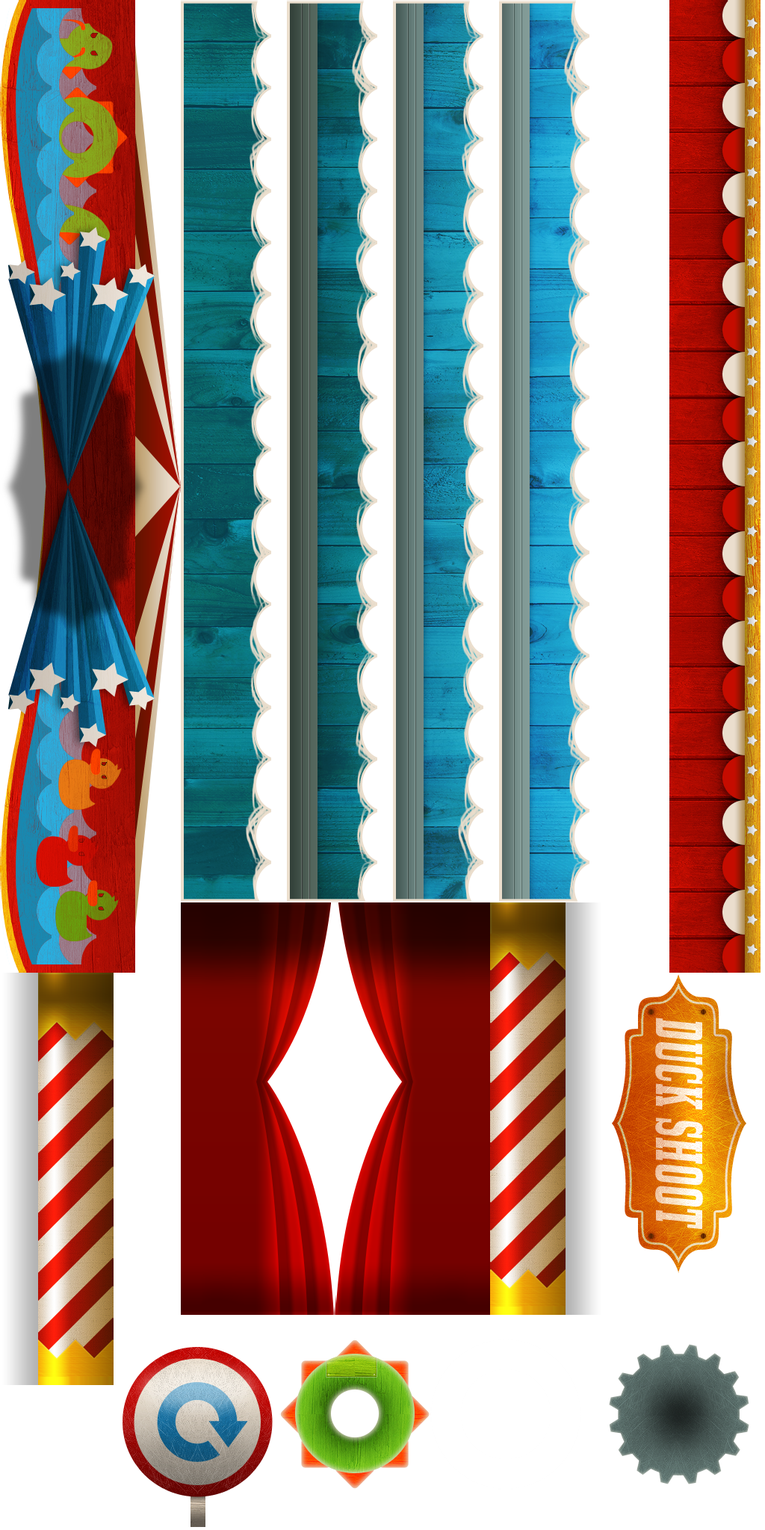
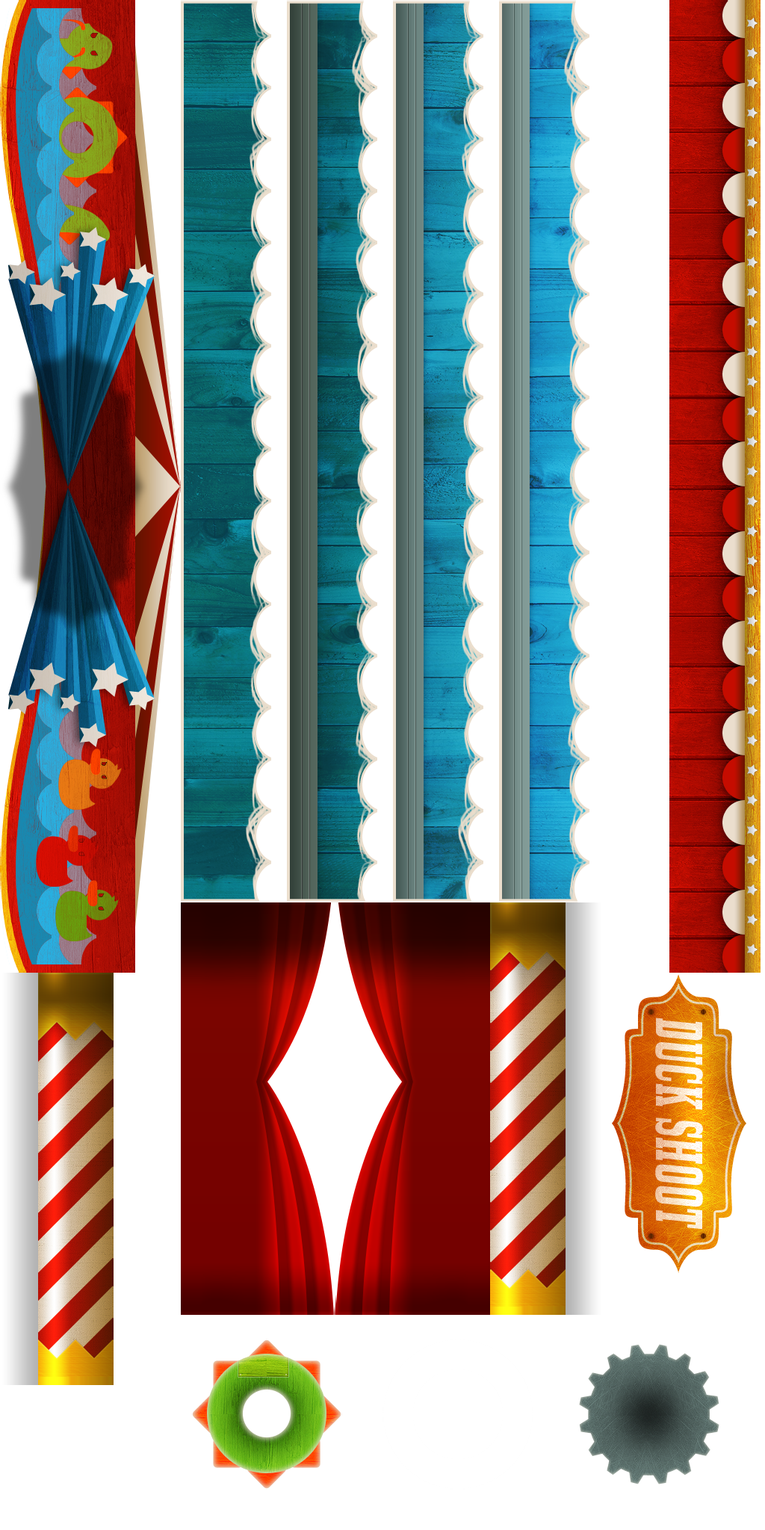
games

Changed region(s): [[0.1562, 0.875, 0.5625, 1.0], [0.75, 0.875, 1.0, 0.9688]]

diff --git a/Duck_Shoot_Self/scripts/c3runtime.js b/Duck_Shoot_Self/scripts/c3runtime.js
@@ -1296,6 +1296,11 @@ const C3=self.C3,SpriteFontText=self.SpriteFontText,DEFAULT_SPRITEFONT_OPTS={wid
 {const a=self.C3;a.Plugins.Json=class extends a.SDKPluginBase{constructor(t){super(t)}Release(){super.Release()}}}{const d=self.C3;d.Plugins.Json.Type=class extends d.SDKTypeBase{constructor(t){super(t)}Release(){super.Release()}OnCreate(){}}}{const g=self.C3,h=self.C3X,i=self.IInstance,j=(g.Plugins.Json.Instance=class extends g.SDKInstanceBase{constructor(t,e){super(t),this._valueCache=[null,null],this._locationCache=[null,null],this._data={},this._path=[],this._currentKey="",this._currentValue=0}Release(){super.Release()}_InvalidateValueCache(){this._valueCache[0]=null,this._valueCache[1]=null}_HasValueCache(a,t){const s=this._valueCache[0];if(null!==a&&null!==s){if(s===a||g.arraysEqual(s,a))return!0;if(t&&0<s.length){for(let t=0,e=Math.min(a.length,s.length);t<e;++t)if(a[t]!==s[t])return!1;return!0}}return!1}_GetValueCache(){return this._valueCache[1]}_UpdateValueCache(t,e){this._valueCache[0]=t,this._valueCache[1]=e}_InvalidateLocationCache(){this._locationCache[0]=null,this._locationCache[1]=null}_HasLocationCache(t){return this._locationCache[0]===t}_GetLocationCache(){return this._locationCache[1]}_UpdateLocationCache(t,e){this._locationCache[0]=t,this._locationCache[1]=e}_SetData(t){this._data=t,this._InvalidateValueCache(),this._SetPath("")}_GetData(){return this._data}_SetPath(t){this._path=this._ParsePathUnsafe(t),this._InvalidateLocationCache()}_ParsePath(t){return g.cloneArray(this._ParsePathUnsafe(t))}_ParsePathUnsafe(t){const e=[];let a=!1,s;if(this._HasLocationCache(t))return this._GetLocationCache();"."===t[0]?(s=g.cloneArray(this._path),t=t.slice(1)):s=[];for(const r of t)a?(e.push(r),a=!1):"\\"===r?a=!0:"."===r?(s.push(e.join("")),g.clearArray(e)):e.push(r);return 0!==e.length&&s.push(e.join("")),this._UpdateLocationCache(t,s),s}_GetValueAtFullPath(t,e){if(this._HasValueCache(t,!1))return this._GetValueCache();let a=this._data;for(const s of t)if(Array.isArray(a)){const r=parseInt(s,10);if(r<0||r>=a.length||!isFinite(r)){a=null;break}a=a[r]}else{if("object"!=typeof a||null===a){a=null;break}if(a.hasOwnProperty(s))a=a[s];else{if(!e){a=null;break}{const n={};a[s]=n,a=n}}}return this._UpdateValueCache(t,a),a}_GetValue(t){const e=this._ParsePath(t);if(!e.length)return this._data;const a=e.pop(),s=this._GetValueAtFullPath(e,!1);if(Array.isArray(s)){const r=parseInt(a,10);return 0<=r&&r<s.length?s[r]:null}return"object"==typeof s&&null!==s&&s.hasOwnProperty(a)?s[a]:null}_JSONTypeOf(t){return null===t?"null":Array.isArray(t)?"array":typeof t}_GetTypeOf(t){const e=this._GetValue(t);return this._JSONTypeOf(e)}_ToSafeValue(t){const e=typeof t;return"number"==e||"string"==e?t:"boolean"==e&&t?1:0}_GetSafeValue(t){return this._ToSafeValue(this._GetValue(t))}_HasKey(t){const e=this._ParsePath(t);if(!e.length)return!1;const a=e.pop(),s=this._GetValueAtFullPath(e,!1);if(Array.isArray(s)){const r=parseInt(a,10);return 0<=r&&r<s.length}return"object"==typeof s&&null!==s&&s.hasOwnProperty(a)}_SetValue(t,e){const a=this._ParsePath(t);if(!a.length)return!1;this._HasValueCache(a,!0)&&this._InvalidateValueCache();const s=a.pop(),r=this._GetValueAtFullPath(a,!0);if(Array.isArray(r)){const n=parseInt(s,10);return!isFinite(n)||n<0||n>=r.length?!1:(r[n]=e,!0)}return"object"==typeof r&&null!==r&&(r[s]=e,!0)}_DeleteKey(t){const e=this._ParsePath(t);if(!e.length)return!1;this._HasValueCache(e,!0)&&this._InvalidateValueCache();const a=e.pop(),s=this._GetValueAtFullPath(e,!1);return!Array.isArray(s)&&"object"==typeof s&&null!==s&&(delete s[a],!0)}SaveToJson(){return{"path":this._path,"data":this._data}}LoadFromJson(t){this._InvalidateValueCache(),this._InvalidateLocationCache(),this._path=t["path"],this._data=t["data"]}_SanitizeValue(t){const e=typeof t;return"number"==e?isFinite(t)?t:0:"object"==typeof t?JSON.stringify(t):t+""}GetDebuggerProperties(){const t="plugins.json.debugger";let e;try{e=this._SanitizeValue(this._data)}catch(t){e='"invalid"'}return[{title:t+".title",properties:[{name:t+".data",value:e,onedit:t=>{try{const e=JSON.parse(t);this._SetData(e)}catch(t){}}},{name:t+".path",value:this._path.map(t=>t.replace(/\./g,"\\.")).join(".")}]}]}GetScriptInterfaceClass(){return self.IJSONInstance}},new WeakMap);self.IJSONInstance=class extends i{constructor(){super(),j.set(this,i._GetInitInst().GetSdkInstance())}getJsonDataCopy(){const t=j.get(this)._GetData();return JSON.parse(JSON.stringify(t))}setJsonDataCopy(t){try{const e=JSON.parse(JSON.stringify(t));j.get(this)._SetData(e)}catch(t){throw console.error("[JSON plugin] setJsonData: object is not valid JSON: ",t),t}}setJsonString(t){h.RequireString(t);try{const e=JSON.parse(t);j.get(this)._SetData(e)}catch(t){throw console.error("[JSON plugin] setJsonString: string is not valid JSON: ",t),t}}toCompactString(){return JSON.stringify(j.get(this)._GetData())}toBeautifiedString(){return JSON.stringify(j.get(this)._GetData(),null,4)}}}{const Ba=self.C3,Ca=["null","boolean","number","string","object","array"];Ba.Plugins.Json.Cnds={HasKey(t){return this._HasKey(t)},CompareType(t,e){return this._GetTypeOf(t)===Ca[e]},CompareValue(t,e,a){return Ba.compare(this._GetSafeValue(t),e,a)},IsBooleanSet(t){return!0===this._GetValue(t)},ForEach(t){const e=this._GetValue(t);if("object"==typeof e&&null!==e){const a=this._runtime,s=a.GetEventSheetManager(),r=a.GetCurrentEvent(),n=r.GetSolModifiers(),i=a.GetEventStack(),l=i.GetCurrentStackFrame(),u=i.Push(r),h=this._path,o=this._currentKey,c=this._currentValue,_=this._ParsePathUnsafe(t);a.SetDebuggingEnabled(!1);for(const[p,y]of Object.entries(e)){this._path=Ba.cloneArray(_),this._path.push(p),this._currentKey=p,this._currentValue=y,s.PushCopySol(n);const S=this.GetObjectClass().GetCurrentSol();S.PickOne(this.GetInstance()),r.Retrigger(l,u),s.PopSol(n)}a.SetDebuggingEnabled(!0),this._path=h,this._InvalidateLocationCache(),this._currentKey=o,this._currentValue=c,i.Pop()}return!1},OnParseError(){return!0},OnParseSuccess(){return!0}}}{const $a=self.C3;$a.Plugins.Json.Acts={Parse(t){try{this._SetData(JSON.parse(t)),this.Trigger($a.Plugins.Json.Cnds.OnParseSuccess)}catch(t){console.warn("[JSON plugin] Failed to parse JSON data: ",t),this._SetData({}),this.Trigger($a.Plugins.Json.Cnds.OnParseError)}},SetPath(t){this._SetPath(t)},SetValue(t,e){this._SetValue(t,e)},SetArray(t,e){let a=this._GetValue(t);Array.isArray(a)?$a.resizeArray(a,e,0):(a=[],$a.extendArray(a,e,0),this._SetValue(t,a))},SetObject(t){this._SetValue(t,{})},SetJSON(t,e){let a=null;try{a=JSON.parse(e),this.Trigger($a.Plugins.Json.Cnds.OnParseSuccess)}catch(t){console.warn("[JSON plugin] Failed to parse JSON data: ",t),this.Trigger($a.Plugins.Json.Cnds.OnParseError)}this._SetValue(t,a)},SetNull(t){this._SetValue(t,null)},SetBoolean(t,e){this._SetValue(t,0!==e)},ToggleBoolean(t){const e=this._GetValue(t);"boolean"==typeof e&&this._SetValue(t,!e)},AddTo(t,e){const a=this._GetValue(t);"number"==typeof a&&this._SetValue(t,a+e)},SubtractFrom(t,e){const a=this._GetValue(t);"number"==typeof a&&this._SetValue(t,a-e)},DeleteKey(t){this._DeleteKey(t)},PushValue(t,e,a){const s=this._GetValue(e);Array.isArray(s)&&(0===t?s.push(a):s.unshift(a),this._InvalidateValueCache())},PopValue(t,e){const a=this._GetValue(e);Array.isArray(a)&&(0===t?a.pop():a.shift(),this._InvalidateValueCache())},InsertValue(t,e,a){const s=this._GetValue(e);Array.isArray(s)&&(s.splice(a,0,t),this._InvalidateValueCache())},RemoveValues(t,e,a){const s=this._GetValue(e);Array.isArray(s)&&0<t&&(s.splice(a,t),this._InvalidateValueCache())}}}{const N0=self.C3;N0.Plugins.Json.Exps={ToCompactString(){try{return JSON.stringify(this._data)}catch(t){return""}},ToBeautifiedString(){try{return JSON.stringify(this._data,null,4)}catch(t){return""}},Get(t){return this._GetSafeValue(t)},GetAsCompactString(t){const e=this._GetValue(t);return JSON.stringify(e)},GetAsBeautifiedString(t){const e=this._GetValue(t);return JSON.stringify(e,null,4)},Front(t){const e=this._GetValue(t);if(Array.isArray(e)){const a=e[0];return this._ToSafeValue(a)}return-1},Back(t){const e=this._GetValue(t);if(Array.isArray(e)){const a=e.at(-1);return this._ToSafeValue(a)}return-1},Type(t){return this._GetTypeOf(t)},ArraySize(t){const e=this._GetValue(t);return Array.isArray(e)?e.length:-1},Path(){return this._path.map(t=>t.replace(/\./g,"\\.")).join(".")},CurrentKey(){return this._currentKey},CurrentValue(){return this._ToSafeValue(this._currentValue)},CurrentType(){return this._JSONTypeOf(this._currentValue)}}}
 }
 
+// scripts/plugins/TiledBg/c3runtime/runtime.js
+{
+{const a=self.C3;a.Plugins.TiledBg=class extends a.SDKPluginBase{constructor(e){super(e)}Release(){super.Release()}}}{const d=self.C3;function WrapModeToStr(e){switch(e){case 0:return"clamp-to-edge";case 1:return"repeat";case 2:return"mirror-repeat"}return"repeat"}d.Plugins.TiledBg.Type=class extends d.SDKTypeBase{constructor(e,t){super(e),this._wrapX="repeat",this._wrapY="repeat",t&&(this._wrapX=WrapModeToStr(t[0]),this._wrapY=WrapModeToStr(t[1]))}Release(){super.Release()}OnCreate(){this.GetImageInfo().LoadAsset(this._runtime)}LoadTextures(e){return this.GetImageInfo().LoadStaticTexture(e,{sampling:this._runtime.GetSampling(),wrapX:this._wrapX,wrapY:this._wrapY})}ReleaseTextures(){this.GetImageInfo().ReleaseTexture()}GetWrapModeX(){return this._wrapX}GetWrapModeY(){return this._wrapY}}}{const j=self.C3,k=self.C3X,l=0,m=1,n=4,o=5,p=6,q=7,r=8,s=9,t=10,u=11,v=12,w=13,x=14,y=j.New(j.Rect),z=j.New(j.Quad),A=j.New(j.Rect),B=j.New(j.Quad),C=(j.Plugins.TiledBg.Instance=class extends j.SDKWorldInstanceBase{constructor(e,i){super(e),this._imageOffsetX=0,this._imageOffsetY=0,this._imageScaleX=1,this._imageScaleY=1,this._imageAngle=0,this._enableTileRandomization=!1,this._tileXRandom=0,this._tileYRandom=0,this._tileAngleRandom=0,this._tileBlendMarginX=0,this._tileBlendMarginY=0,this._ownImageInfo=null,i&&(this.GetWorldInfo().SetVisible(!!i[l]),this._imageOffsetX=i[n],this._imageOffsetY=i[o],this._imageScaleX=i[p],this._imageScaleY=i[q],this._imageAngle=j.toRadians(i[r]),this._enableTileRandomization=!!i[s],this._tileXRandom=i[t],this._tileYRandom=i[u],this._tileAngleRandom=i[v],this._tileBlendMarginX=i[w],this._tileBlendMarginY=i[x])}Release(){this._ReleaseOwnImage(),super.Release()}_ReleaseOwnImage(){this._ownImageInfo&&(this._ownImageInfo.Release(),this._ownImageInfo=null)}CalculateTextureCoordsFor3DFace(e,t,i){const a=this.GetCurrentImageInfo(),n=a.GetWidth(),s=a.GetHeight(),l=this._imageOffsetX/n,r=this._imageOffsetY/s,g=this._imageAngle;A.set(0,0,e/(n*this._imageScaleX),t/(s*this._imageScaleY)),A.offset(-l,-r),0===g?i.setFromRect(A):i.setFromRotatedRect(A,-g)}SetTilingShaderProgram(e,t=!0){if(this._enableTileRandomization){const i=this.GetCurrentImageInfo();e.SetTileRandomizationMode(),e.SetTileRandomizationInfo(i.GetWidth()*this._imageScaleX,i.GetHeight()*this._imageScaleY,this._tileXRandom,this._tileYRandom,this._tileAngleRandom,this._tileBlendMarginX,this._tileBlendMarginY)}else t&&e.SetTextureFillMode()}Draw(e){const t=this.GetCurrentImageInfo(),i=t.GetTexture();if(null!==i){this.SetTilingShaderProgram(e),e.SetTexture(i);const a=t.GetWidth(),n=t.GetHeight(),s=this._imageOffsetX/a,l=this._imageOffsetY/n,r=this.GetWorldInfo();A.set(0,0,r.GetWidth()/(a*this._imageScaleX),r.GetHeight()/(n*this._imageScaleY)),A.offset(-s,-l),r.HasMesh()?this._DrawMesh(r,e):this._DrawStandard(r,e)}}_DrawStandard(e,t){let i=e.GetBoundingQuad();this._runtime.IsPixelRoundingEnabled()&&(i=e.PixelRoundQuad(i)),0===this._imageAngle?t.Quad3(i,A):(B.setFromRotatedRect(A,-this._imageAngle),t.Quad4(i,B))}_DrawMesh(i,e){const a=i.GetTransformedMesh();if(i.IsMeshChanged()){i.CalculateBbox(y,z,!1);let e=z,t=(this._runtime.IsPixelRoundingEnabled()&&(e=i.PixelRoundQuad(e)),A);0!==this._imageAngle&&(B.setFromRotatedRect(A,-this._imageAngle),t=B),a.CalculateTransformedMesh(i.GetSourceMesh(),e,t),i.SetMeshChanged(!1)}a.Draw(e)}GetCurrentImageInfo(){return this._ownImageInfo||this._objectClass.GetImageInfo()}IsOriginalSizeKnown(){return!0}GetTexture(){return this.GetCurrentImageInfo().GetTexture()}_SetMeshChanged(){this.GetWorldInfo().SetMeshChanged(!0)}_SetImageOffsetX(e){this._imageOffsetX!==e&&(this._imageOffsetX=e,this._runtime.UpdateRender(),this._SetMeshChanged())}_GetImageOffsetX(){return this._imageOffsetX}_SetImageOffsetY(e){this._imageOffsetY!==e&&(this._imageOffsetY=e,this._runtime.UpdateRender(),this._SetMeshChanged())}_GetImageOffsetY(){return this._imageOffsetY}_SetImageScaleX(e){this._imageScaleX!==e&&(this._imageScaleX=e,this._runtime.UpdateRender(),this._SetMeshChanged())}_GetImageScaleX(){return this._imageScaleX}_SetImageScaleY(e){this._imageScaleY!==e&&(this._imageScaleY=e,this._runtime.UpdateRender(),this._SetMeshChanged())}_GetImageScaleY(){return this._imageScaleY}_SetImageAngle(e){this._imageAngle!==e&&(this._imageAngle=e,this._runtime.UpdateRender(),this._SetMeshChanged())}_GetImageAngle(){return this._imageAngle}_SetTileRandomizationEnabled(e){this._enableTileRandomization!==(e=!!e)&&(this._enableTileRandomization=e,this._runtime.UpdateRender())}_IsTileRandomizationEnabled(){return this._enableTileRandomization}_SetTileXRandom(e){this._tileXRandom!==e&&(this._tileXRandom=e,this._IsTileRandomizationEnabled())&&this._runtime.UpdateRender()}_GetTileXRandom(){return this._tileXRandom}_SetTileYRandom(e){this._tileYRandom!==e&&(this._tileYRandom=e,this._IsTileRandomizationEnabled())&&this._runtime.UpdateRender()}_GetTileYRandom(){return this._tileYRandom}_SetTileAngleRandom(e){this._tileAngleRandom!==e&&(this._tileAngleRandom=e,this._IsTileRandomizationEnabled())&&this._runtime.UpdateRender()}_GetTileAngleRandom(){return this._tileAngleRandom}_SetTileBlendMarginX(e){this._tileBlendMarginX!==e&&(this._tileBlendMarginX=e,this._IsTileRandomizationEnabled())&&this._runtime.UpdateRender()}_GetTileBlendMarginX(){return this._tileBlendMarginX}_SetTileBlendMarginY(e){this._tileBlendMarginY!==e&&(this._tileBlendMarginY=e,this._IsTileRandomizationEnabled())&&this._runtime.UpdateRender()}_GetTileBlendMarginY(){return this._tileBlendMarginY}SaveToJson(){const e={};return 0!==this._imageOffsetX&&(e["iox"]=this._imageOffsetX),0!==this._imageOffsetY&&(e["ioy"]=this._imageOffsetY),1!==this._imageScaleX&&(e["isx"]=this._imageScaleX),1!==this._imageScaleY&&(e["isy"]=this._imageScaleY),0!==this._imageAngle&&(e["ia"]=this._imageAngle),this._enableTileRandomization&&(e["tr"]=!0),1!==this._tileXRandom&&(e["trx"]=this._tileXRandom),1!==this._tileYRandom&&(e["try"]=this._tileYRandom),1!==this._tileAngleRandom&&(e["tra"]=this._tileAngleRandom),.1!==this._tileBlendMarginX&&(e["trbmx"]=this._tileBlendMarginX),.1!==this._tileBlendMarginY&&(e["trbmy"]=this._tileBlendMarginY),e}LoadFromJson(e){this._imageOffsetX=e["iox"]||0,this._imageOffsetY=e["ioy"]||0,this._imageScaleX=e.hasOwnProperty("isx")?e["isx"]:1,this._imageScaleY=e.hasOwnProperty("isy")?e["isy"]:1,this._imageAngle=e["ia"]||0,this._enableTileRandomization=!!e["tr"],this._tileXRandom=e.hasOwnProperty("trx")?e["trx"]:1,this._tileYRandom=e.hasOwnProperty("try")?e["try"]:1,this._tileAngleRandom=e.hasOwnProperty("tra")?e["tra"]:1,this._tileBlendMarginX=e.hasOwnProperty("trbmx")?e["trbmx"]:.1,this._tileBlendMarginY=e.hasOwnProperty("trbmy")?e["trbmy"]:.1}GetDebuggerProperties(){const e="plugins.tiledbg.properties";return[{title:e+".image-transform.name",properties:[{name:e+".image-offset-x.name",value:this._GetImageOffsetX(),onedit:e=>this._SetImageOffsetX(e)},{name:e+".image-offset-y.name",value:this._GetImageOffsetY(),onedit:e=>this._SetImageOffsetY(e)},{name:e+".image-scale-x.name",value:100*this._GetImageScaleX(),onedit:e=>this._SetImageScaleX(e/100)},{name:e+".image-scale-y.name",value:100*this._GetImageScaleY(),onedit:e=>this._SetImageScaleY(e/100)},{name:e+".image-angle.name",value:j.toDegrees(this._GetImageAngle()),onedit:e=>this._SetImageAngle(j.toRadians(e))}]},{title:e+".tile-randomization.name",properties:[{name:e+".enable-tile-randomization.name",value:this._IsTileRandomizationEnabled(),onedit:e=>this._SetTileRandomizationEnabled(e)},{name:e+".x-random.name",value:100*this._GetTileXRandom(),onedit:e=>this._SetTileXRandom(e/100)},{name:e+".y-random.name",value:100*this._GetTileYRandom(),onedit:e=>this._SetTileYRandom(e/100)},{name:e+".angle-random.name",value:100*this._GetTileAngleRandom(),onedit:e=>this._SetTileAngleRandom(e/100)},{name:e+".blend-margin-x.name",value:100*this._GetTileBlendMarginX(),onedit:e=>this._SetTileBlendMarginX(e/100)},{name:e+".blend-margin-y.name",value:100*this._GetTileBlendMarginY(),onedit:e=>this._SetTileBlendMarginY(e/100)}]}]}GetPropertyValueByIndex(e){switch(e){case n:return this._GetImageOffsetX();case o:return this._GetImageOffsetY();case p:return this._GetImageScaleX();case q:return this._GetImageScaleY();case r:return this._GetImageAngle();case s:return this._IsTileRandomizationEnabled();case t:return this._GetTileXRandom();case u:return this._GetTileYRandom();case v:return this._GetTileAngleRandom();case w:return this._GetTileBlendMarginX();case x:return this._GetTileBlendMarginY()}}SetPropertyValueByIndex(e,i){switch(e){case n:this._SetImageOffsetX(i);break;case o:this._SetImageOffsetY(i);break;case p:this._SetImageScaleX(i);break;case q:this._SetImageScaleY(i);break;case r:this._SetImageAngle(i);break;case s:this._SetTileRandomizationEnabled(!!i);break;case t:this._SetTileXRandom(i);break;case u:this._SetTileYRandom(i);break;case v:this._SetTileAngleRandom(i);break;case w:this._SetTileBlendMarginX(i);break;case x:this._SetTileBlendMarginY(i)}}GetScriptInterfaceClass(){return self.ITiledBackgroundInstance}},new WeakMap);self.ITiledBackgroundInstance=class extends self.IWorldInstance{constructor(){super(),C.set(this,self.IInstance._GetInitInst().GetSdkInstance())}set imageOffsetX(e){k.RequireFiniteNumber(e),C.get(this)._SetImageOffsetX(e)}get imageOffsetX(){return C.get(this)._GetImageOffsetX()}set imageOffsetY(e){k.RequireFiniteNumber(e),C.get(this)._SetImageOffsetY(e)}get imageOffsetY(){return C.get(this)._GetImageOffsetY()}setImageOffset(e,t){k.RequireFiniteNumber(e),k.RequireFiniteNumber(t);const i=C.get(this);i._SetImageOffsetX(e),i._SetImageOffsetY(t)}getImageOffset(){const e=C.get(this);return[e._GetImageOffsetX(),e._GetImageOffsetY()]}set imageScaleX(e){k.RequireFiniteNumber(e),C.get(this)._SetImageScaleX(e)}get imageScaleX(){return C.get(this)._GetImageScaleX()}set imageScaleY(e){k.RequireFiniteNumber(e),C.get(this)._SetImageScaleY(e)}get imageScaleY(){return C.get(this)._GetImageScaleY()}setImageScale(e,t){k.RequireFiniteNumber(e),k.RequireFiniteNumber(t);const i=C.get(this);i._SetImageScaleX(e),i._SetImageScaleY(t)}getImageScale(){const e=C.get(this);return[e._GetImageScaleX(),e._GetImageScaleY()]}set imageAngle(e){k.RequireFiniteNumber(e),C.get(this)._SetImageAngle(e)}get imageAngle(){return C.get(this)._GetImageAngle()}set imageAngleDegrees(e){k.RequireFiniteNumber(e),C.get(this)._SetImageAngle(j.toRadians(e))}get imageAngleDegrees(){return j.toDegrees(C.get(this)._GetImageAngle())}get imageWidth(){return C.get(this).GetCurrentImageInfo().GetWidth()}get imageHeight(){return C.get(this).GetCurrentImageInfo().GetHeight()}getImageSize(){const e=C.get(this).GetCurrentImageInfo();return[e.GetWidth(),e.GetHeight()]}set enableTileRandomization(e){C.get(this)._SetTileRandomizationEnabled(!!e)}get enableTileRandomization(){return C.get(this)._IsTileRandomizationEnabled()}set tileXRandom(e){k.RequireFiniteNumber(e),C.get(this)._SetTileXRandom(e)}get tileXRandom(){return C.get(this)._GetTileXRandom()}set tileYRandom(e){k.RequireFiniteNumber(e),C.get(this)._SetTileYRandom(e)}get tileYRandom(){return C.get(this)._GetTileYRandom()}setTileRandom(e,t){k.RequireFiniteNumber(e),k.RequireFiniteNumber(t);const i=C.get(this);i._SetTileXRandom(e),i._SetTileYRandom(t)}getTileRandom(){const e=C.get(this);return[e._GetTileXRandom(),e._GetTileYRandom()]}set tileAngleRandom(e){k.RequireFiniteNumber(e),C.get(this)._SetTileAngleRandom(e)}get tileAngleRandom(){return C.get(this)._GetTileAngleRandom()}set tileBlendMarginX(e){k.RequireFiniteNumber(e),C.get(this)._SetTileBlendMarginX(e)}get tileBlendMarginX(){return C.get(this)._GetTileBlendMarginX()}set tileBlendMarginY(e){k.RequireFiniteNumber(e),C.get(this)._SetTileBlendMarginY(e)}get tileBlendMarginY(){return C.get(this)._GetTileBlendMarginY()}setTileBlendMargin(e,t){k.RequireFiniteNumber(e),k.RequireFiniteNumber(t);const i=C.get(this);i._SetTileBlendMarginX(e),i._SetTileBlendMarginY(t)}getTileBlendMargin(){const e=C.get(this);return[e._GetTileBlendMarginX(),e._GetTileBlendMarginY()]}async replaceImage(e){k.RequireInstanceOf(e,Blob);const t=C.get(this),i=t.GetRuntime(),a=j.New(j.ImageInfo);a.LoadDynamicBlobAsset(i,e),await a.LoadStaticTexture(i.GetRenderer(),{sampling:i.GetSampling(),wrapX:t.GetSdkType().GetWrapModeX(),wrapY:t.GetSdkType().GetWrapModeY()}),t.WasReleased()?a.Release():(t._ReleaseOwnImage(),t._ownImageInfo=a,i.UpdateRender())}}}{const o0=self.C3;o0.Plugins.TiledBg.Cnds={OnURLLoaded(){return!0},OnURLFailed(){return!0},IsTileRandomizationEnabled(){return this._IsTileRandomizationEnabled()}}}{const p0=self.C3;p0.Plugins.TiledBg.Acts={SetImageOffsetX(e){this._SetImageOffsetX(e)},SetImageOffsetY(e){this._SetImageOffsetY(e)},SetImageScaleX(e){this._SetImageScaleX(e/100)},SetImageScaleY(e){this._SetImageScaleY(e/100)},SetImageAngle(e){this._SetImageAngle(p0.toRadians(e))},SetTileRandomizationEnabled(e){this._SetTileRandomizationEnabled(e)},SetTilePosRandom(e,t){this._SetTileXRandom(e/100),this._SetTileYRandom(t/100)},SetTileAngleRandom(e){this._SetTileAngleRandom(e/100)},SetTileBlendMargin(e,t){this._SetTileBlendMarginX(e/100),this._SetTileBlendMarginY(t/100)},SetEffect(e){this.GetWorldInfo().SetBlendMode(e),this._runtime.UpdateRender()},async LoadURL(e,t){if(!this._ownImageInfo||this._ownImageInfo.GetURL()!==e){const i=this._runtime,a=p0.New(p0.ImageInfo);try{if(await a.LoadDynamicAsset(i,e),!a.IsLoaded())throw new Error("image failed to load");if(this.WasReleased())return a.Release(),null;const n=await a.LoadStaticTexture(i.GetRenderer(),{sampling:i.GetSampling(),wrapX:this.GetSdkType().GetWrapModeX(),wrapY:this.GetSdkType().GetWrapModeY()});if(!n)return}catch(e){return console.error("Load image from URL failed: ",e),void(this.WasReleased()||this.Trigger(p0.Plugins.TiledBg.Cnds.OnURLFailed))}this.WasReleased()?a.Release():(this._ReleaseOwnImage(),this._ownImageInfo=a,i.UpdateRender(),await this.TriggerAsync(p0.Plugins.TiledBg.Cnds.OnURLLoaded))}}}}{const I0=self.C3;I0.Plugins.TiledBg.Exps={ImageWidth(){return this.GetCurrentImageInfo().GetWidth()},ImageHeight(){return this.GetCurrentImageInfo().GetHeight()},ImageOffsetX(){return this._imageOffsetX},ImageOffsetY(){return this._imageOffsetY},ImageScaleX(){return 100*this._imageScaleX},ImageScaleY(){return 100*this._imageScaleY},ImageAngle(){return I0.toDegrees(this._imageAngle)},TileXRandom(){return 100*this._GetTileXRandom()},TileYRandom(){return 100*this._GetTileYRandom()},TileAngleRandom(){return 100*this._GetTileAngleRandom()},TileBlendMarginX(){return 100*this._GetTileBlendMarginX()},TileBlendMarginY(){return 100*this._GetTileBlendMarginY()}}}
+}
+
 // scripts/behaviors/scrollto/c3runtime/runtime.js
 {
 {const a=self.C3;a.Behaviors.scrollto=class extends a.SDKBehaviorBase{constructor(e){super(e),this._shakeMag=0,this._shakeStart=0,this._shakeEnd=0,this._shakeMode=0}Release(){super.Release()}SetShakeMagnitude(e){this._shakeMag=e}GetShakeMagnitude(){return this._shakeMag}SetShakeStart(e){this._shakeStart=e}GetShakeStart(){return this._shakeStart}SetShakeEnd(e){this._shakeEnd=e}GetShakeEnd(){return this._shakeEnd}SetShakeMode(e){this._shakeMode=e}GetShakeMode(){return this._shakeMode}}}{const h=self.C3;h.Behaviors.scrollto.Type=class extends h.SDKBehaviorTypeBase{constructor(e){super(e)}Release(){super.Release()}OnCreate(){}}}{const k=self.C3,l=0;k.Behaviors.scrollto.Instance=class extends k.SDKBehaviorInstanceBase{constructor(e,t){super(e),this._isEnabled=!0,t&&(this._isEnabled=t[l]),this._isEnabled&&this._StartTicking2()}Release(){super.Release()}SaveToJson(){const e=this.GetBehavior();return{"e":this._isEnabled,"smg":e.GetShakeMagnitude(),"ss":e.GetShakeStart(),"se":e.GetShakeEnd(),"smd":e.GetShakeMode()}}LoadFromJson(e){const t=this.GetBehavior();t.SetShakeMagnitude(e["smg"]),t.SetShakeStart(e["ss"]),t.SetShakeEnd(e["se"]),t.SetShakeMode(e["smd"]),this._isEnabled=e["e"],this._isEnabled?this._StartTicking2():this._StopTicking2()}_SetEnabled(e){this._isEnabled=!!e,this._isEnabled?this._StartTicking2():this._StopTicking2()}IsEnabled(){return this._isEnabled}Tick2(){if(this.IsEnabled()){this._runtime.GetDt(this._inst);const h=this.GetBehavior(),n=h.GetInstances();let e=0,t=0,s=0;for(const S of n){const l=S.GetBehaviorInstanceFromCtor(k.Behaviors.scrollto);if(l&&l.GetSdkInstance().IsEnabled()){const d=S.GetWorldInfo();e+=d.GetX(),t+=d.GetY(),++s}}const r=this._inst.GetWorldInfo().GetLayout(),o=this._runtime.GetGameTime();let a=0,i=0;if(o>=h.GetShakeStart()&&o<h.GetShakeEnd()){let e=h.GetShakeMagnitude()*Math.min(this._runtime.GetTimeScale(),1);0===h.GetShakeMode()&&(e*=1-(o-h.GetShakeStart())/(h.GetShakeEnd()-h.GetShakeStart()));const c=this._runtime.Random()*Math.PI*2,_=this._runtime.Random()*e;a=Math.cos(c)*_,i=Math.sin(c)*_}r.SetScrollX(e/s+a),r.SetScrollY(t/s+i)}}GetPropertyValueByIndex(e){if(e===l)return this._isEnabled}SetPropertyValueByIndex(e,t){e===l&&(this._isEnabled=!!t,this._isEnabled?this._StartTicking2():this._StopTicking2())}GetDebuggerProperties(){return[{title:"$"+this.GetBehaviorType().GetName(),properties:[{name:"behaviors.scrollto.properties.enabled.name",value:this.IsEnabled(),onedit:e=>this._SetEnabled(e)}]}]}}}{const O=self.C3;O.Behaviors.scrollto.Cnds={IsEnabled(){return this.IsEnabled()}}}{const P=self.C3;P.Behaviors.scrollto.Acts={Shake(e,t,s){const a=this.GetBehavior();a.SetShakeMagnitude(e),a.SetShakeStart(this._runtime.GetGameTime()),a.SetShakeEnd(this._runtime.GetGameTime()+t),a.SetShakeMode(s)},SetEnabled(e){this._SetEnabled(0!==e)}}}{const V=self.C3;V.Behaviors.scrollto.Exps={}}
@@ -1559,7 +1564,6 @@ self.C3_ExpressionFuncs = [
 		() => 30,
 		() => 340,
 		() => 1580,
-		() => "wave_1",
 		() => 0.2,
 		() => "Content-Type",
 		() => "application/json",
@@ -1577,21 +1581,10 @@ self.C3_ExpressionFuncs = [
 			return () => (and((((and((and("{\n  \"gameKey\": \"DuckShoot\",\n  \"level\": 1,\n  \"score\": ", v0.GetValue()) + ",\n  \"timestamp\": \""), f1("new Date().toISOString()")) + "\",\n  \"metadata\": {\n    \"platform\": \"") + f2()) + "\",\n    \"device\": \""), f3("\n      let ua = navigator.userAgent;\n      if (/Android/.test(ua)) {\n          let match = ua.match(/SM-[A-Z0-9]+|ONEPLUS [A-Z0-9]+|M2007J3SG|Redmi Note [0-9]+|Mi [A-Z0-9]+/i);\n          return match ? match[0] : 'Unknown Android';\n      } else if (/iPhone/.test(ua)) {\n          return 'iPhone (Exact model hidden by Apple)';\n      } else {\n          return 'Unknown Device';\n      }\n    ")) + "\"\n  }\n}");
 		},
 		() => "high_score",
-		() => "http://51.20.122.168/api/userScore",
+		() => "https://51.20.122.168/api/userScore",
 		() => "POST",
-		() => 960,
-		() => 670,
-		() => 250,
-		p => {
-			const n0 = p._GetNode(0);
-			return () => (n0.ExpObject() + 10);
-		},
 		() => "again",
 		() => 2.5,
-		p => {
-			const n0 = p._GetNode(0);
-			return () => (n0.ExpObject() - 10);
-		},
 		() => "record",
 		() => "info",
 		p => {

diff --git a/Duck_Shoot_Self/scripts/objRefTable.js b/Duck_Shoot_Self/scripts/objRefTable.js
@@ -16,6 +16,7 @@ self.C3_GetObjectRefTable = function () {
 		C3.Plugins.TextBox,
 		C3.Plugins.Dictionary,
 		C3.Plugins.Json,
+		C3.Plugins.TiledBg,
 		C3.Behaviors.Sin,
 		C3.Behaviors.Bullet,
 		C3.Plugins.System.Cnds.IsGroupActive,
@@ -154,7 +155,6 @@ self.C3_JsPropNameTable = [
 	{tent_courtain_right: 0},
 	{tent_courtain_tie_left: 0},
 	{tent_courtain_tie_right: 0},
-	{info_bt_again: 0},
 	{info_record: 0},
 	{share_facebook: 0},
 	{share_twitter: 0},
@@ -174,6 +174,11 @@ self.C3_JsPropNameTable = [
 	{ScoreData: 0},
 	{apiResponse: 0},
 	{gameover: 0},
+	{Sprite: 0},
+	{TiledBackground: 0},
+	{home: 0},
+	{leaderboard: 0},
+	{prizes: 0},
 	{Sine: 0},
 	{waves: 0},
 	{Bullet2: 0},
@@ -246,7 +251,6 @@ self.InstanceType = {
 	tent_courtain_right: class extends self.ISpriteInstance {},
 	tent_courtain_tie_left: class extends self.ISpriteInstance {},
 	tent_courtain_tie_right: class extends self.ISpriteInstance {},
-	info_bt_again: class extends self.ISpriteInstance {},
 	info_record: class extends self.ISpriteInstance {},
 	share_facebook: class extends self.ISpriteInstance {},
 	share_twitter: class extends self.ISpriteInstance {},
@@ -266,6 +270,11 @@ self.InstanceType = {
 	ScoreData: class extends self.IDictionaryInstance {},
 	apiResponse: class extends self.IJSONInstance {},
 	gameover: class extends self.ISpriteInstance {},
+	Sprite: class extends self.ISpriteInstance {},
+	TiledBackground: class extends self.ITiledBackgroundInstance {},
+	home: class extends self.ISpriteInstance {},
+	leaderboard: class extends self.ISpriteInstance {},
+	prizes: class extends self.ISpriteInstance {},
 	waves: class extends self.ISpriteInstance {},
 	characters: class extends self.ISpriteInstance {},
 	characters_one_more: class extends self.ISpriteInstance {}
